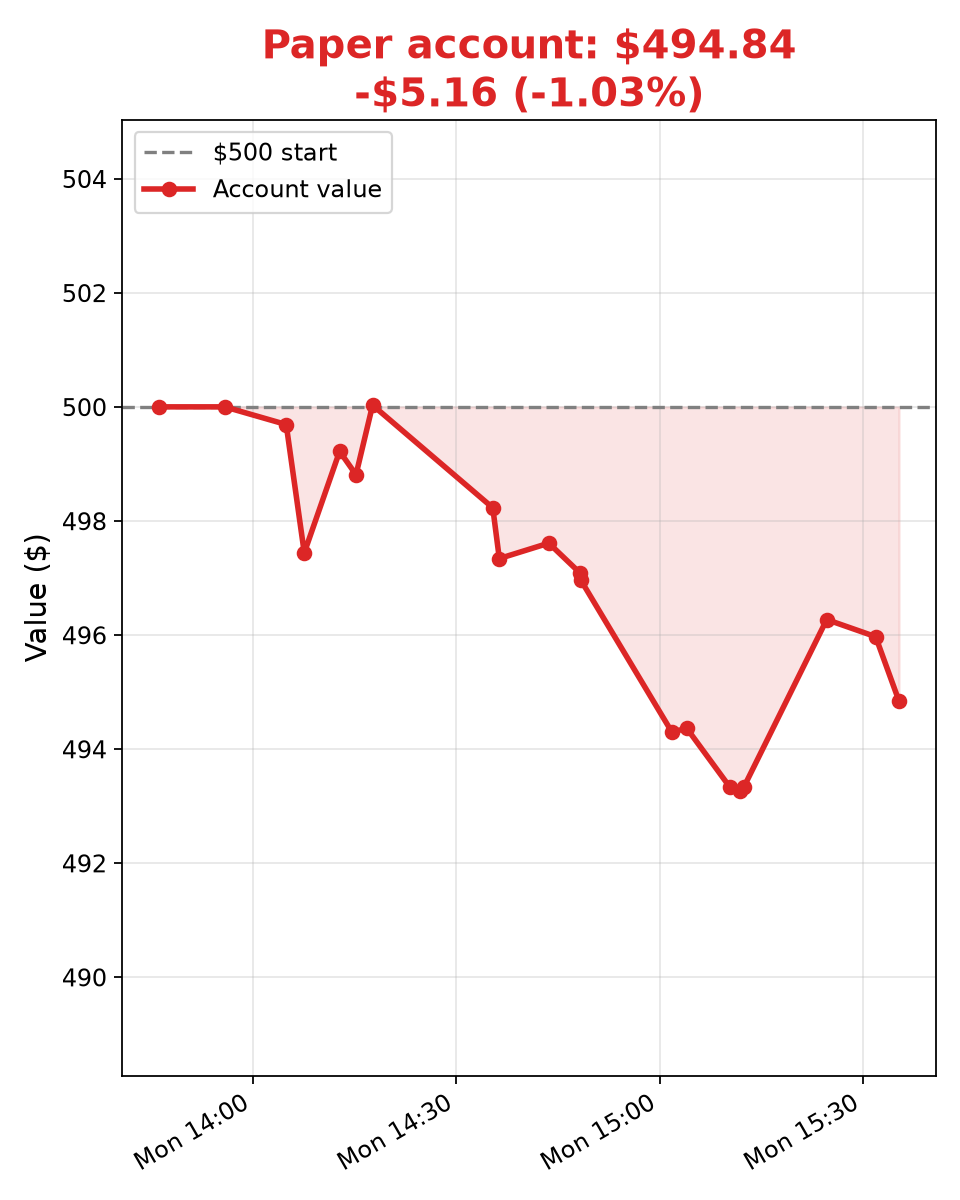
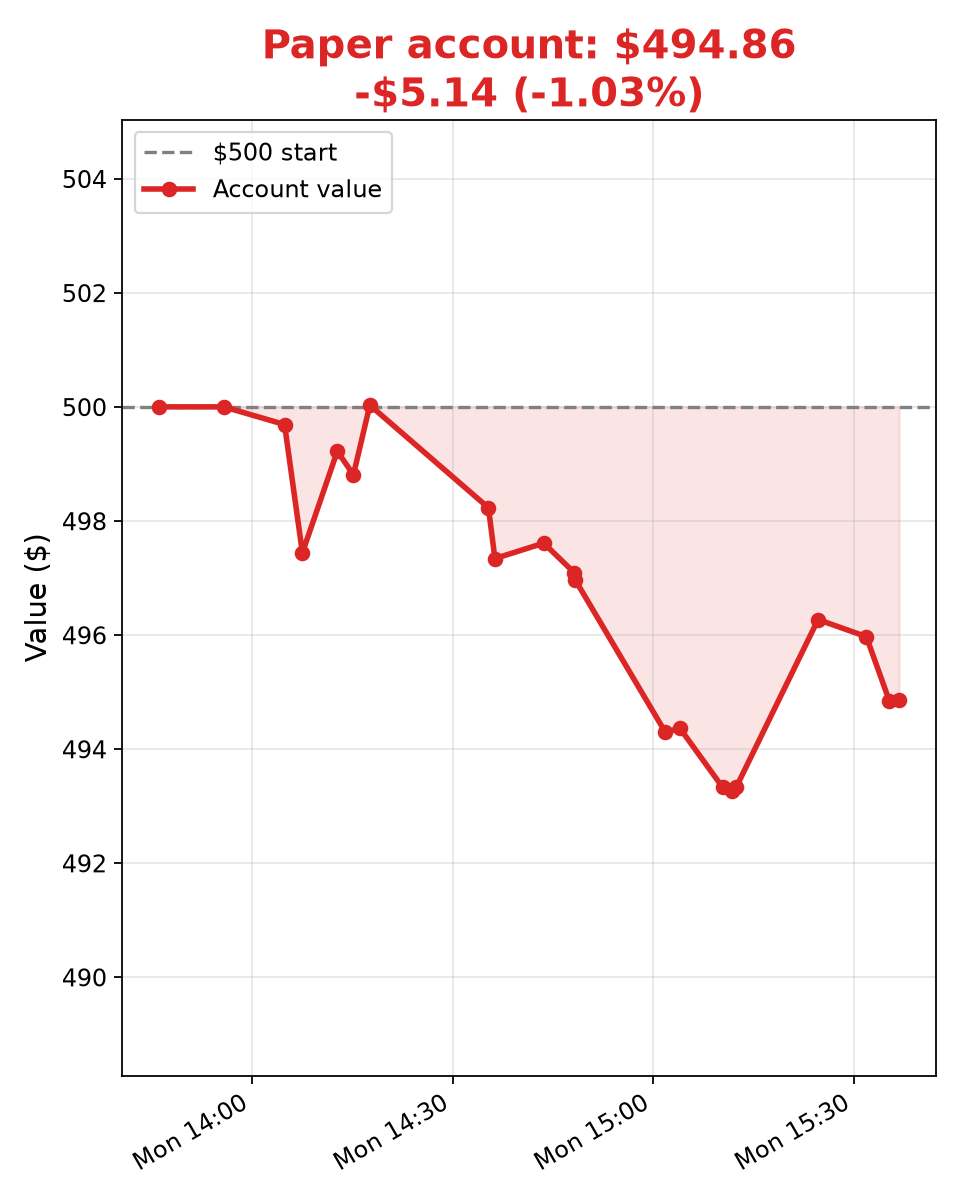
Update 2026-10-12T15:36:51Z

diff --git a/ledger.md b/ledger.md
@@ -42,3 +42,4 @@
 - 2026-10-12T15:24:39Z — total $496.27, cash $98.62 (Stock Bot mark, no trade; FRO 59.02, DHT 26.059, ASTS 53.45 marked; no stops/targets hit — tankers bouncing off midday lows)
 - 2026-10-12T15:31:52Z — total $495.97, cash $98.62 (Bot1 mark, no trade; FRO 59.11, DHT 26.045, ASTS 53.20 marked; no stops/targets hit)
 - 2026-10-12T15:35:19Z — total $494.84, cash $98.62 (Jr mark, no trade; FRO 58.855, DHT 25.925, ASTS 53.305 marked; no stops/targets hit)
+- 2026-10-12T15:36:45Z — total $494.86, cash $98.62 (Bot2 mark, no trade; FRO 58.883, DHT 25.95, ASTS 53.205 marked; no stops/targets hit)
